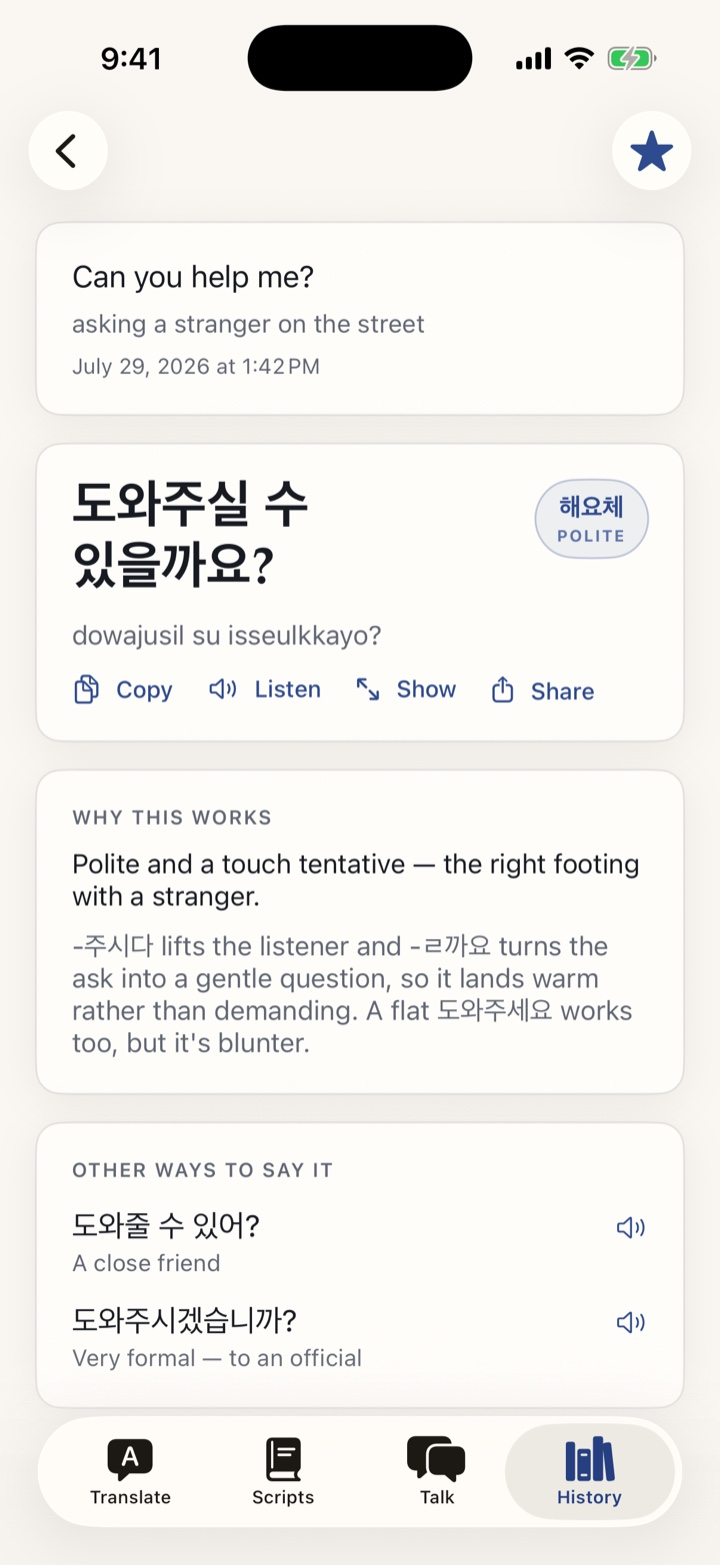
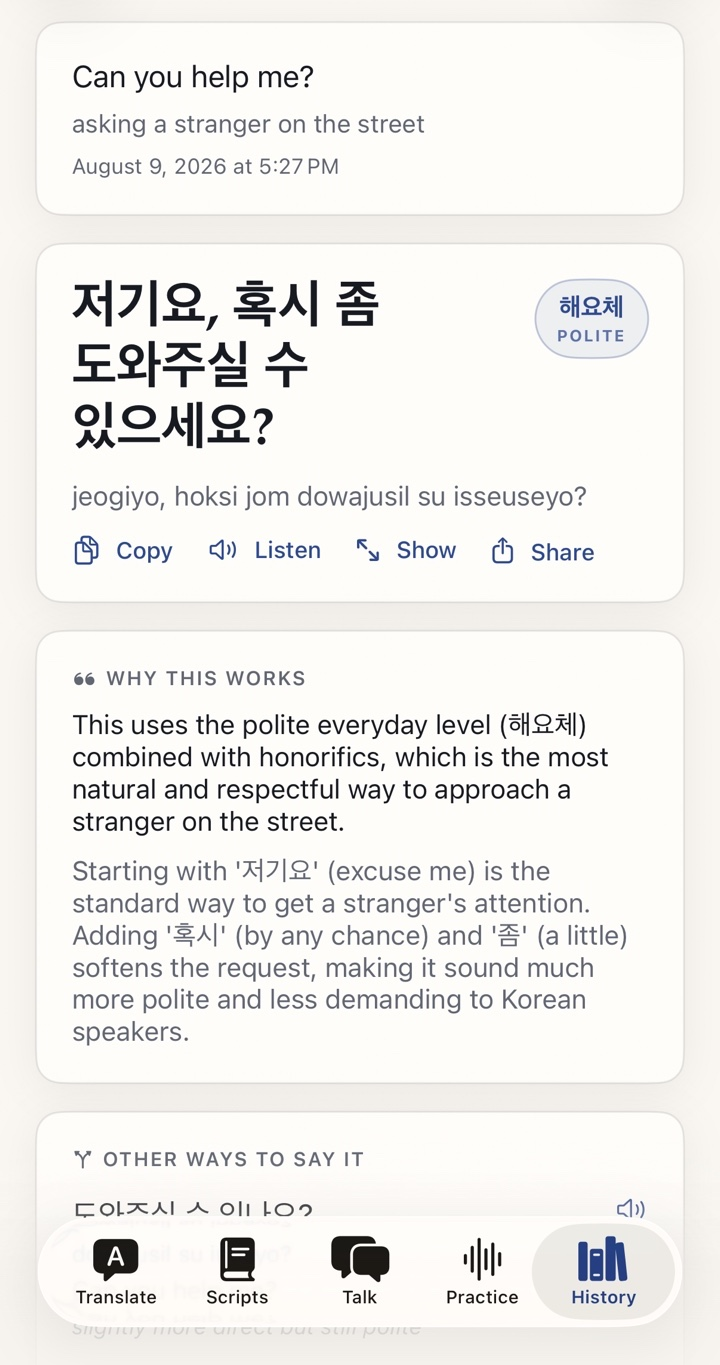
Localize the app screenshots into all twelve languages
Sixty captures, five screens each in twelve languages, taken by driving a
simulator against the live endpoints — real answers, as the page has always
claimed. Each visitor's own language paired with Korean, except the Korean
visitor, whose target is English (and whose Camera shot photographs an
English sign, since a Korean board would translate nothing for them).

The language picker now swaps shots/<lang>/*.jpg and the alt text with it.
A locale whose files are missing falls back to the flat shots/*.jpg, so a
gap degrades instead of leaving a hole.

All sixty are trimmed 200px off the top so the answer card leads the frame
rather than the status bar and the input form — the cards are what sell it.
Uniformly 720×1365: the page sizes each phone from its image, so a shot of a
different height would render as a differently-shaped device beside its
neighbours.

diff --git a/index.html b/index.html
@@ -422,7 +422,7 @@
       <div class="phone real">
         <div class="notch"></div>
         <div class="screen">
-          <img class="shot-img" src="shots/register.jpg" alt="A real Tono answer: 도와주실 수 있을까요?, marked 해요체 · polite, with why this works and other ways to say it" loading="eager">
+          <img class="shot-img" data-shot="register" src="shots/register.jpg" alt="A real Tono answer: 도와주실 수 있을까요?, marked 해요체 · polite, with why this works and other ways to say it" loading="eager">
         </div>
       </div>
     </div>
@@ -525,7 +525,7 @@
         <div class="phone real">
           <div class="notch"></div>
           <div class="screen">
-            <img class="shot-img" src="shots/talk.jpg" alt="Tono Talk — a live bilingual conversation with translations" loading="lazy">
+            <img class="shot-img" data-shot="talk" src="shots/talk.jpg" alt="Tono Talk — a live bilingual conversation with translations" loading="lazy">
           </div>
         </div>
         <div class="cap-tag" data-i18n="show_talk_tag">Talk</div>
@@ -536,7 +536,7 @@
         <div class="phone real">
           <div class="notch"></div>
           <div class="screen">
-            <img class="shot-img" src="shots/scripts.jpg" alt="Tono Scripts — a pharmacy conversation rehearsed line by line" loading="lazy">
+            <img class="shot-img" data-shot="scripts" src="shots/scripts.jpg" alt="Tono Scripts — a pharmacy conversation rehearsed line by line" loading="lazy">
           </div>
         </div>
         <div class="cap-tag" data-i18n="show_scripts_tag">Scripts</div>
@@ -547,7 +547,7 @@
         <div class="phone real">
           <div class="notch"></div>
           <div class="screen">
-            <img class="shot-img" src="shots/camera.jpg" alt="Tono Camera — a Korean menu photo translated with context" loading="lazy">
+            <img class="shot-img" data-shot="camera" src="shots/camera.jpg" alt="Tono Camera — a Korean menu photo translated with context" loading="lazy">
           </div>
         </div>
         <div class="cap-tag" data-i18n="show_camera_tag">Camera</div>
@@ -570,7 +570,7 @@
         <div class="phone real">
           <div class="notch"></div>
           <div class="screen">
-            <img class="shot-img" src="shots/show.jpg" alt="Tono Show Mode — a full-screen phrase to show a stranger, with a courtesy note" loading="lazy">
+            <img class="shot-img" data-shot="show" src="shots/show.jpg" alt="Tono Show Mode — a full-screen phrase to show a stranger, with a courtesy note" loading="lazy">
           </div>
         </div>
       </div>
@@ -2072,11 +2072,41 @@
       if(v) el.innerHTML = v;
     });
   }
+  /* ---- per-language screenshots ---- */
+  /* Real captures of the app running in each language, paired with Korean —
+     except the Korean set, whose target is English. A locale whose files are
+     missing falls back to the English shot at the old flat path, so a gap
+     degrades instead of leaving a hole in the page. */
+  var SHOT_ALT = {
+    en: {register:"A Tono answer, with its politeness level named and explained", talk:"A live conversation in Tono, with ready replies to tap", scripts:"A pharmacy conversation, rehearsed line by line", camera:"A photographed menu sign, read and translated", show:"Show Mode — a full-screen phrase to show someone"},
+    ko: {register:"Tono의 답변 — 말투 단계를 짚어주고 이유까지 설명합니다", talk:"실시간 대화 — 바로 누를 수 있는 답변까지", scripts:"약국에서 나눌 대화를 한 줄씩 연습", camera:"메뉴판 사진을 찍어 번역", show:"보여주기 모드 — 전체 화면으로 보여주는 문장"},
+    ja: {register:"Tonoの回答 — 敬語のレベルを示し、理由まで説明", talk:"リアルタイム会話と、タップで送れる返答", scripts:"薬局での会話を一行ずつ練習", camera:"メニューの写真を読み取って翻訳", show:"提示モード — 全画面で見せる一文"},
+    zh: {register:"Tono 的答案，标注敬语级别并解释原因", talk:"实时对话，还有可一键发送的回复", scripts:"药店对话，逐句排练", camera:"拍下菜单，直接读懂", show:"展示模式 — 全屏显示给对方看的句子"},
+    "zh-Hant": {register:"Tono 的答案，標註敬語程度並解釋原因", talk:"即時對話，還有可一鍵送出的回覆", scripts:"藥局對話，逐句排練", camera:"拍下菜單，直接讀懂", show:"展示模式 — 全螢幕顯示給對方看的句子"},
+    "zh-HK": {register:"Tono 嘅答案，標明敬語程度同解釋原因", talk:"即時對話，仲有撳一下就送出嘅回覆", scripts:"藥房對話，一句句練習", camera:"影低餐牌，即刻睇得明", show:"展示模式 — 全螢幕俾對方睇嘅句子"},
+    es: {register:"Una respuesta de Tono, con su nivel de formalidad explicado", talk:"Una conversación en directo, con respuestas listas para tocar", scripts:"Una conversación de farmacia, ensayada línea a línea", camera:"Un cartel de menú fotografiado y traducido", show:"Modo Mostrar — una frase a pantalla completa"},
+    fr: {register:"Une réponse de Tono, avec son niveau de politesse expliqué", talk:"Une conversation en direct, avec des réponses prêtes à toucher", scripts:"Une conversation à la pharmacie, répétée ligne par ligne", camera:"Une pancarte de menu photographiée et traduite", show:"Mode Montrer — une phrase en plein écran"},
+    de: {register:"Eine Tono-Antwort, mit erklärter Höflichkeitsform", talk:"Ein Gespräch in Echtzeit, mit Antworten zum Antippen", scripts:"Ein Apothekengespräch, Zeile für Zeile geprobt", camera:"Ein fotografiertes Menüschild, übersetzt", show:"Zeigen-Modus — ein Satz im Vollbild"},
+    vi: {register:"Một câu trả lời của Tono, kèm mức độ lịch sự được giải thích", talk:"Cuộc trò chuyện trực tiếp, có sẵn câu trả lời để chạm", scripts:"Hội thoại ở hiệu thuốc, tập từng câu", camera:"Ảnh chụp bảng thực đơn, đã được dịch", show:"Chế độ Hiển thị — một câu toàn màn hình"},
+    id: {register:"Jawaban Tono, dengan tingkat kesopanannya dijelaskan", talk:"Percakapan langsung, dengan balasan siap disentuh", scripts:"Percakapan di apotek, dilatih baris per baris", camera:"Papan menu yang difoto dan diterjemahkan", show:"Mode Tampilkan — satu kalimat layar penuh"},
+    th: {register:"คำตอบของ Tono พร้อมระบุระดับความสุภาพและเหตุผล", talk:"บทสนทนาสด พร้อมคำตอบให้แตะส่งได้ทันที", scripts:"บทสนทนาที่ร้านขายยา ซ้อมทีละบรรทัด", camera:"ป้ายเมนูที่ถ่ายไว้ แปลให้อ่านออก", show:"โหมดแสดง — ประโยคเต็มจอ"}
+  };
+  function applyShots(lang){
+    document.querySelectorAll("[data-shot]").forEach(function(img){
+      var name = img.getAttribute("data-shot");
+      img.onerror = function(){ this.onerror = null; this.src = "shots/" + name + ".jpg"; };
+      img.src = "shots/" + lang + "/" + name + ".jpg";
+      var alt = (SHOT_ALT[lang] || SHOT_ALT.en)[name];
+      if(alt) img.alt = alt;
+    });
+  }
+
   function applyLang(lang){
     if(!I18N[lang]) lang = "en";
     curLang = lang;
     document.documentElement.lang = lang;
     applyI18n();
+    applyShots(lang);
     langCur.textContent = SHORT[lang] || "English";
     langOpts.forEach(function(b){ b.setAttribute("aria-selected", String(b.dataset.lang === lang)); });
     try{ localStorage.setItem("tono_lang", lang); }catch(e){}
